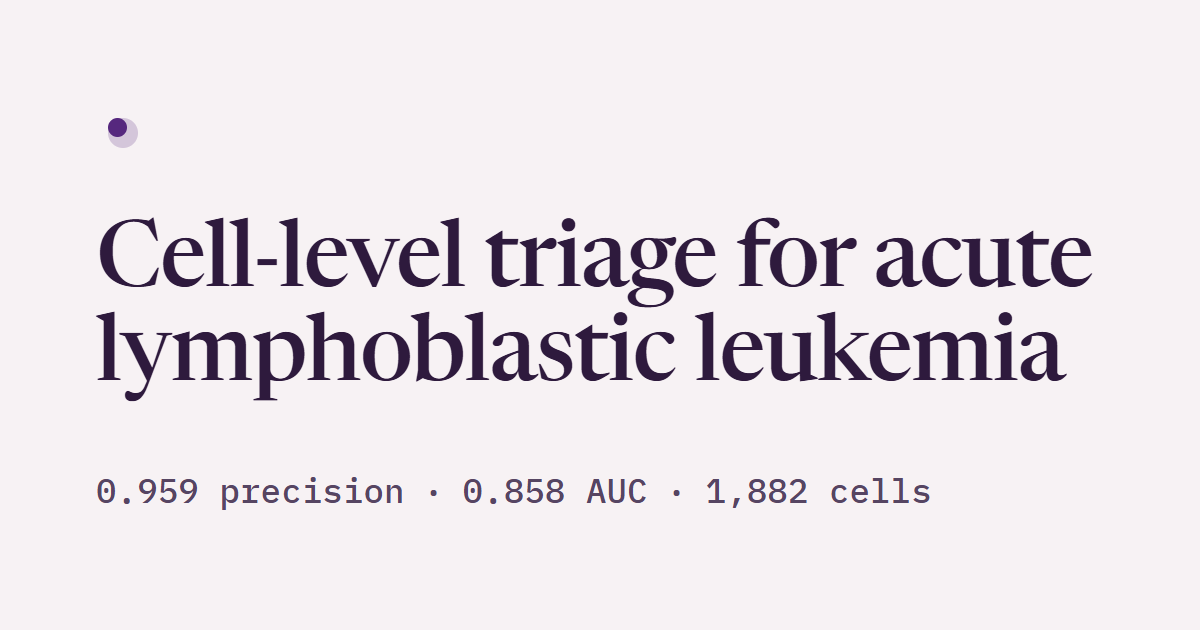
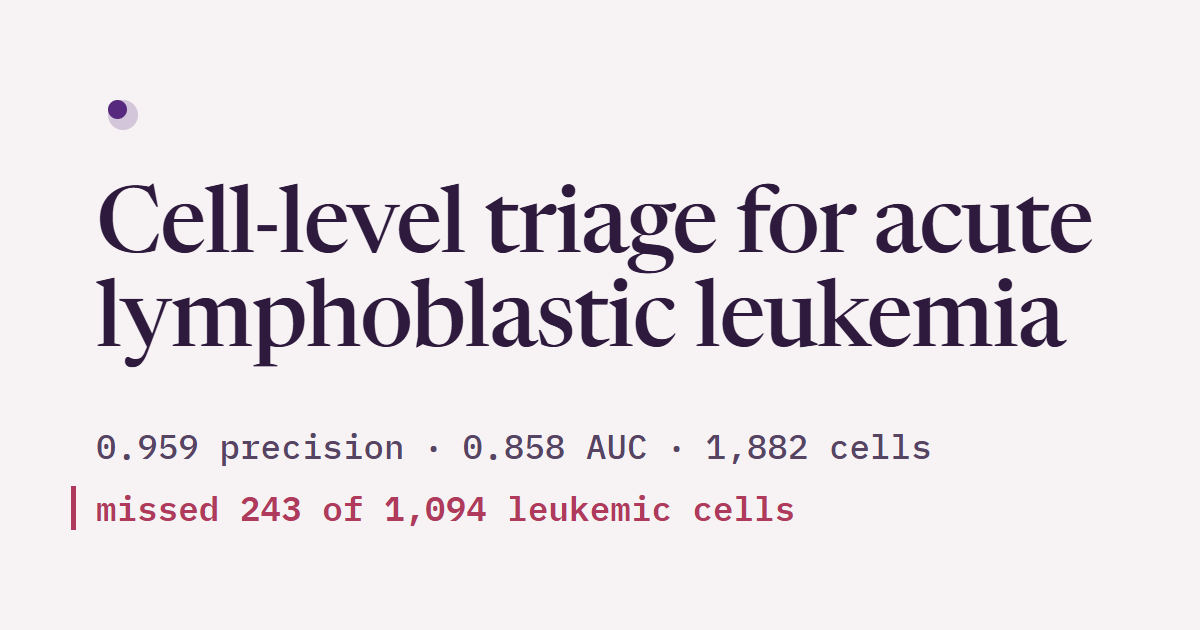
Link preview: carry the miss count, in rose
A preview travels without the page, its disclaimer, or the cell field,
so the limitation has to travel with it. The card gains one line under
the metrics, "missed 243 of 1,094 leukemic cells", in rose #B03A5B with
a rose rule -- the same figure the hero states, not a new number. The
title and the three existing metrics are unchanged. Checked at 340px
wide, roughly a chat thumbnail: both lines stay legible.

og:image:alt describes the new line; the byte count in DEPLOY.md is
updated to match the new file.

diff --git a/index.html b/index.html
@@ -37,7 +37,7 @@
 <meta property="og:image:type" content="image/png">
 <meta property="og:image:width" content="1200">
 <meta property="og:image:height" content="630">
-<meta property="og:image:alt" content="A typographic card on pale pink paper: a small violet dot, the title &quot;Cell-level triage for acute lymphoblastic leukemia&quot; in dark violet ink, and a line reading 0.959 precision, 0.858 AUC, 1,882 cells.">
+<meta property="og:image:alt" content="A typographic card on pale pink paper: a small violet dot, the title &quot;Cell-level triage for acute lymphoblastic leukemia&quot; in dark violet ink, a line reading 0.959 precision, 0.858 AUC, 1,882 cells, and beneath it in rose: missed 243 of 1,094 leukemic cells.">
 
 <meta name="twitter:card" content="summary_large_image">
 <meta name="twitter:title" content="Cell-level triage for leukemia – Astraea Health">

diff --git a/DEPLOY.md b/DEPLOY.md
@@ -184,7 +184,7 @@ curl -sSL -o /dev/null -w 'og-card %{http_code} %{content_type} %{size_download}
 curl -sS "$SITE/" | grep -E '<title>|rel="canonical"|og:url|og:image'
 ```
 
-- `og-card.png` must be **200**, `image/png`, **55376** bytes. A link preview
+- `og-card.png` must be **200**, `image/png`, **63397** bytes. A link preview
   that 404s on its image degrades to a bare text card.
 - The `canonical` and `og:url` values must match the URL you actually browsed,
   **including the trailing slash**. A canonical that disagrees by a slash is
